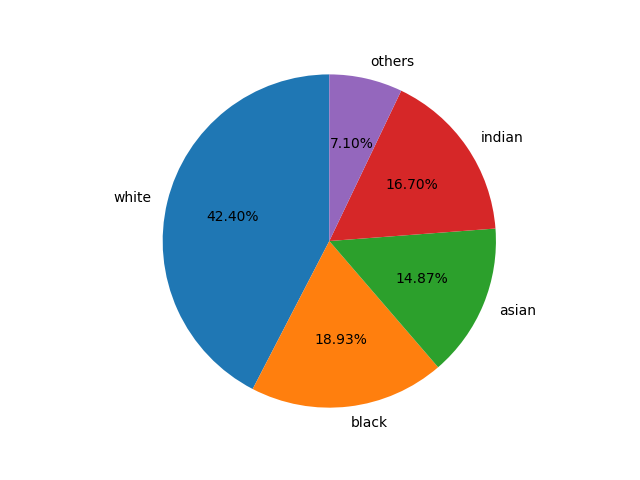
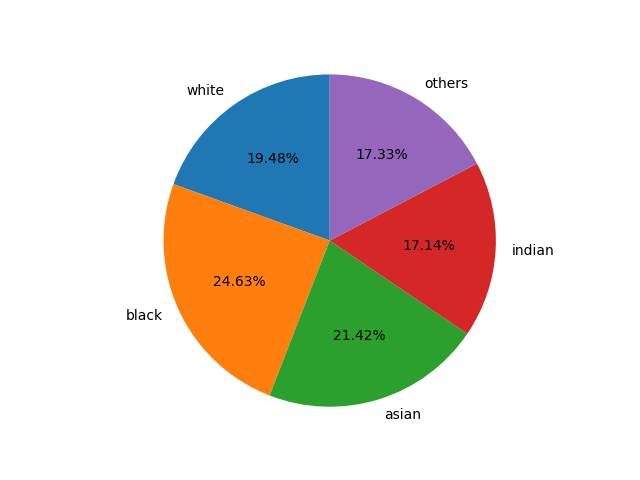
update rrace_iqa plot

diff --git a/input_bias_testing/utk/iqa.py b/input_bias_testing/utk/iqa.py
@@ -30,17 +30,3 @@ for i in dir:
         print(counter, "/", len(dir))
 
 pickle.dump(store, open('input_bias_testing/utk/iqa.pkl', 'wb'))
-
-# for i in dir:
-#     if i[-3:] == 'png':
-#         photo = PIL.Image.open("/home/team/BiasAI/sd18/f1_p0/" + i)
-#         score = (brisque.score(photo))
-#         print(photo, score)
-
-#         txt = i[:-3] + 'txt'
-#         f = open(txt, "r")
-#         sex = (f.read(9))[-1:]
-
-#         store[i] = [score, sex]
-
-# pickle.dump(store, open('iqa.pkl', 'wb'))

diff --git a/input_bias_testing/utk/multinomial_pdf.py b/input_bias_testing/utk/multinomial_pdf.py
@@ -1,12 +1,11 @@
-import numpy as np 
-from numpy import array, log, exp
+from numpy import array
 import scipy.stats as stats
 
 def GAMMA_LN(n):
-    return sc.gammaln(n)
+    return stats.gammaln(n)
 
 def log_factorial(x):
-    return sc.gammaln(array(x)+1.0)
+    return stats.gammaln(array(x)+1.0)
 
 def PDF(P, G, n):
     ''' Arguments: 

diff --git a/input_bias_testing/nist/multinomial_pdf.py b/input_bias_testing/nist/multinomial_pdf.py
@@ -3,10 +3,10 @@ from numpy import array, log, exp
 import scipy.stats as stats
 
 def GAMMA_LN(n):
-    return sc.gammaln(n)
+    return stats.gammaln(n)
 
 def log_factorial(x):
-    return sc.gammaln(array(x)+1.0)
+    return stats.gammaln(array(x)+1.0)
 
 def PDF(P, G, n):
     ''' Arguments: 

diff --git a/input_bias_testing/utk/dataset_bias_plots.py b/input_bias_testing/utk/dataset_bias_plots.py
@@ -56,6 +56,6 @@ plt.show()
 
 # race iqa pie chart
 ax4 = plt.subplot(1, 1, 1)
-ax4.pie(distribution_race, labels = race_labels, autopct="%1.2f%%", startangle=90)
+ax4.pie(iqa_race, labels = race_labels, autopct="%1.2f%%", startangle=90)
 ax4.axis('equal')
 plt.show()
